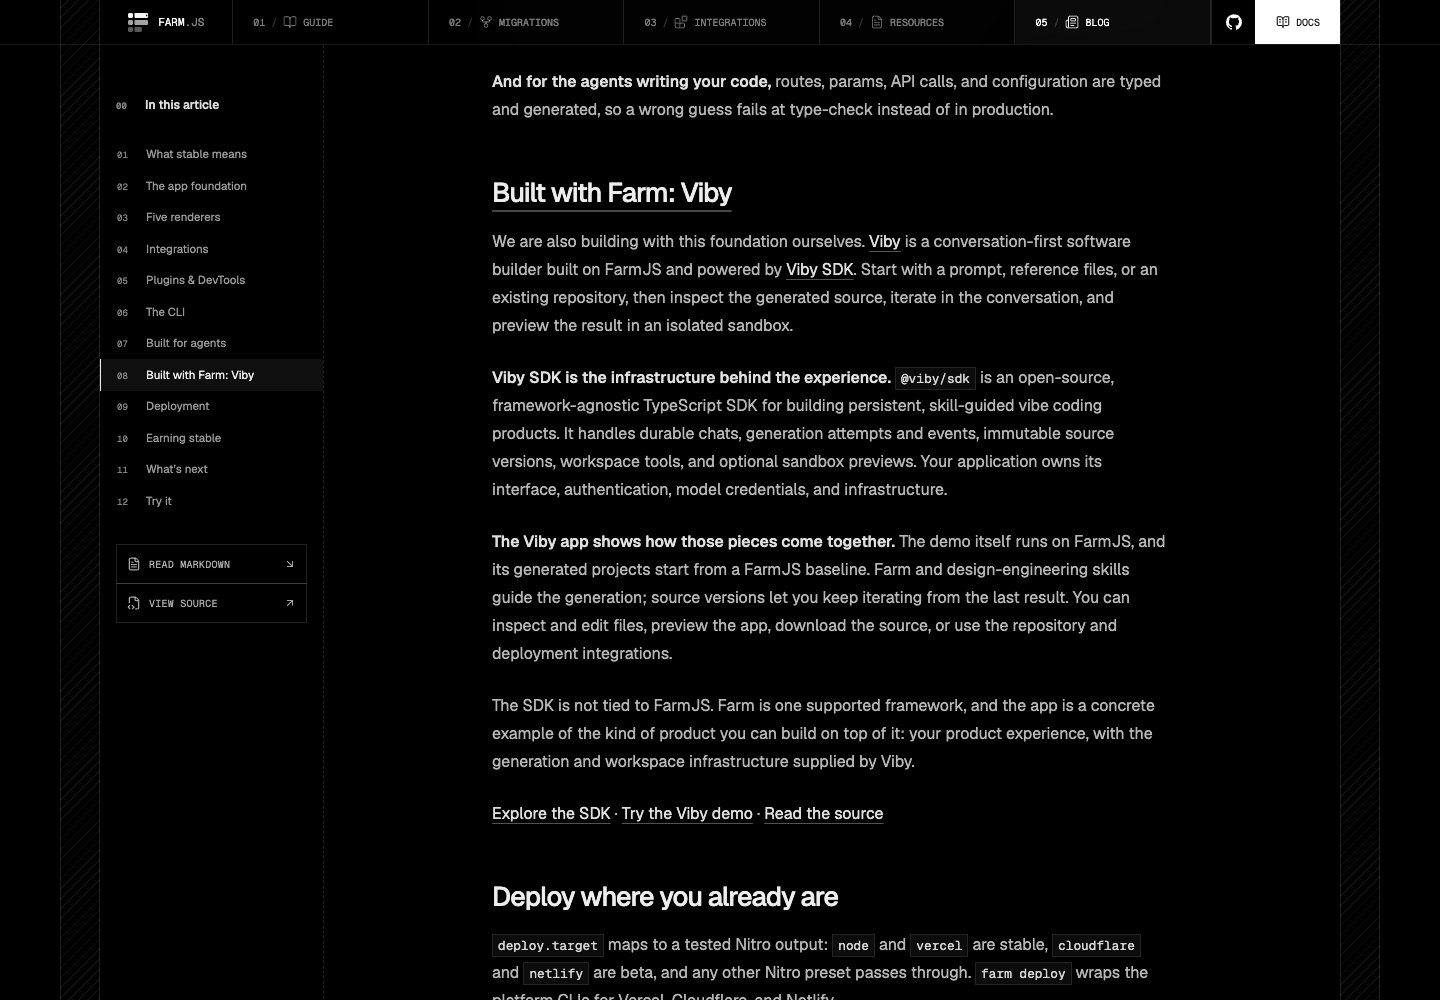
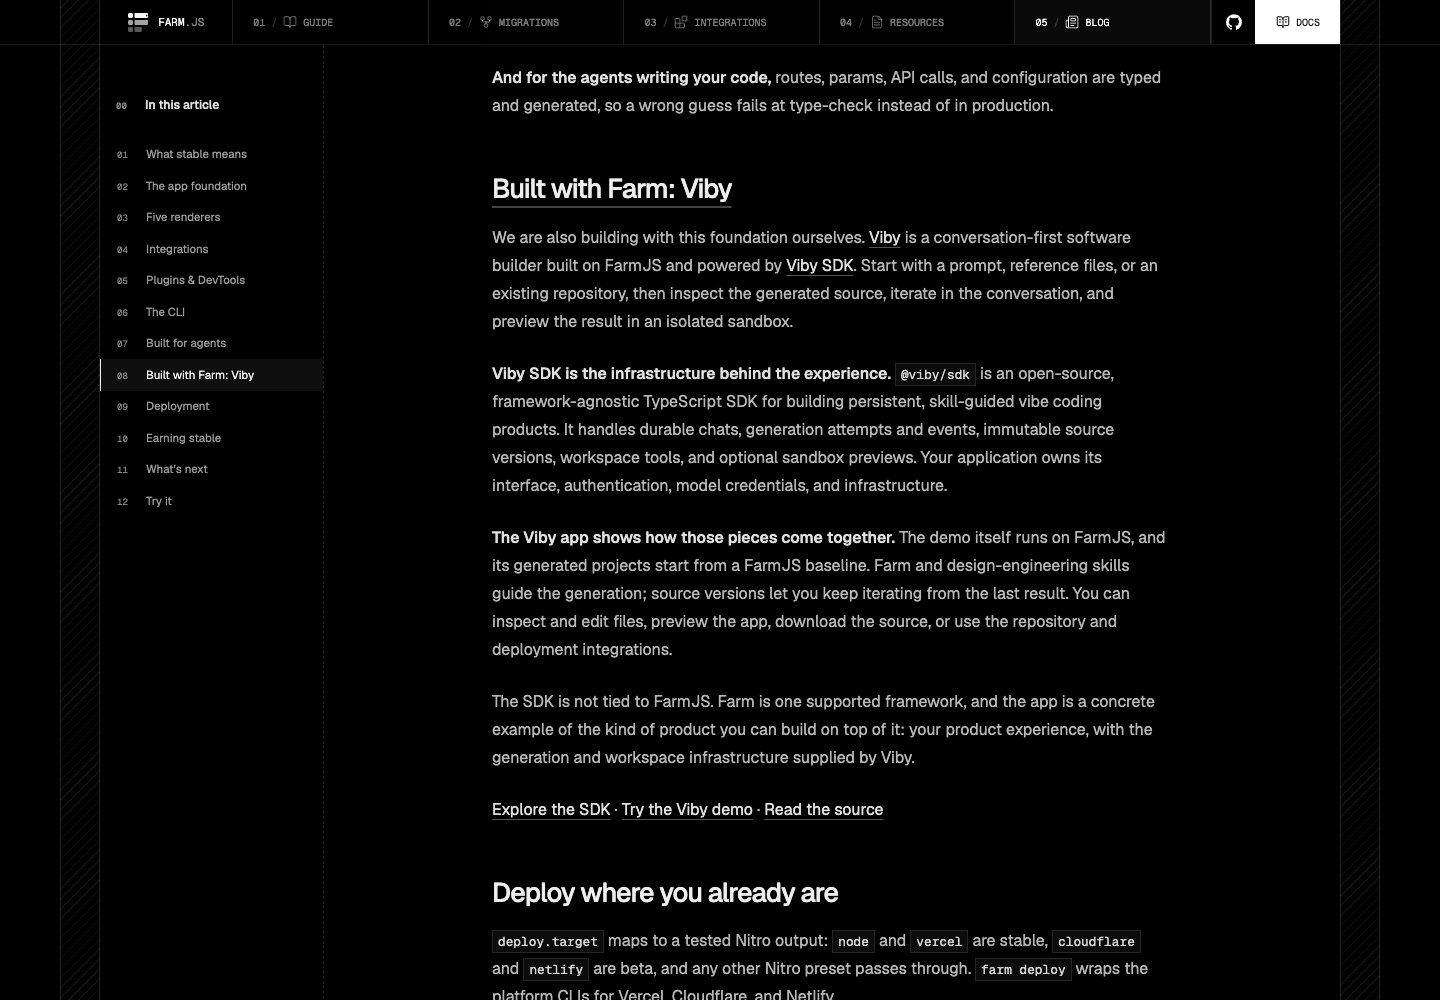
docs(blog): simplify article chrome and highlight code

diff --git a/tests/e2e-production-sites/docs.production.spec.ts b/tests/e2e-production-sites/docs.production.spec.ts
@@ -1,4 +1,4 @@
-import { access } from "node:fs/promises";
+import { access, readFile } from "node:fs/promises";
 import { expect, test } from "@playwright/test";
 
 test.beforeAll(async () => {
@@ -39,7 +39,7 @@ test("blog connects the journal, article, contents, and Markdown mirror", async 
   await page.goto("/blog");
   await expect(page.getByRole("heading", { level: 1 })).toHaveText("The Farm journal.");
   await expect(page.getByRole("link", { name: /Follow the releases/i })).toHaveCount(0);
-  await expect(page.locator(".blog-art-version")).toHaveText("v0.1.0_");
+  await expect(page.locator(".blog-art-version")).toHaveText("v 0.1.0_");
   await expect(page.locator(".blog-featured-bottom .blog-author-name")).toHaveText(
     "KinfeMichael Tariku",
   );
@@ -64,8 +64,11 @@ test("blog connects the journal, article, contents, and Markdown mirror", async 
   await expect(page).toHaveURL(/\/blog\/farm-0-1$/);
   await expect(page.getByRole("heading", { level: 1 })).toHaveCount(1);
   await expect(page.getByRole("heading", { level: 1 })).toContainText("FarmJS v0.1.0");
-  await expect(page.getByRole("heading", { level: 1 })).toHaveCSS("font-size", "42px");
-  await expect(page.locator(".blog-art-version")).toHaveText("v0.1.0_");
+  await expect(page.getByRole("heading", { level: 1 })).toHaveCSS("font-size", "36px");
+  await expect(page.locator(".blog-art-version")).toHaveText("v 0.1.0_");
+  await expect(page.locator(".blog-post-heading > p")).toHaveText(
+    "Our first stable release. Built for apps and agents.",
+  );
   await expect(page.getByRole("heading", { name: /Keep exploring/ })).toHaveCount(1);
   await expect(page.locator(".blog-explore")).toHaveCSS("border-top-width", "1px");
   const hero = await page.locator(".blog-post-header").boundingBox();
@@ -102,29 +105,52 @@ test("blog connects the journal, article, contents, and Markdown mirror", async 
   await expect(
     page.getByRole("heading", { level: 2, name: "Try it", exact: true }),
   ).toBeInViewport();
-  await expect(contents.getByRole("link", { name: /Read Markdown/i })).toHaveAttribute(
-    "href",
-    "/blog/farm-0-1.md",
-  );
-  await expect(contents.getByRole("link", { name: /Read Markdown/i })).toHaveCSS(
-    "text-transform",
-    "uppercase",
-  );
-  await expect(contents.getByRole("link", { name: /View source/i })).toHaveAttribute(
-    "href",
-    "https://github.com/farming-labs/farm.js/blob/main/docs/src/app/blog/farm-0-1/page.md",
-  );
+  await expect(page.getByRole("group", { name: "Article resources" })).toHaveCount(0);
+  await expect(page.getByRole("link", { name: /Read Markdown/i })).toHaveCount(0);
+  await expect(contents.getByRole("link", { name: /View source/i })).toHaveCount(0);
+  await expect(page.getByText("This post is a", { exact: false })).toHaveCount(0);
   const markdown = await page.request.get("/blog/farm-0-1.md");
   expect(markdown.ok()).toBe(true);
   expect(await markdown.text()).toContain("# FarmJS v0.1.0: Stable, Integrated, and Agent-Native");
   expect(await markdown.text()).toContain("## Built with Farm: Viby");
-  await contents.getByRole("link", { name: /Read Markdown/i }).click();
+  await page.goto("/blog/farm-0-1.md");
   await expect(page).toHaveURL(/\/blog\/farm-0-1\.md$/);
   await expect(page.locator("body")).toContainText("# FarmJS v0.1.0");
   await page.goBack();
   await page.getByRole("link", { name: "All posts" }).click();
   await expect(page).toHaveURL(/\/blog$/);
   expect(browserErrors).toEqual([]);
+});
+
+test("blog syntax highlighting is server-rendered and preserves every fenced code sample", async ({
+  browser,
+  baseURL,
+}) => {
+  const source = await readFile("docs/src/app/blog/farm-0-1/page.md", "utf8");
+  const fences = Array.from(source.matchAll(/^```(\w+)\n([\s\S]*?)^```/gm));
+  expect(fences).toHaveLength(6);
+  const context = await browser.newContext({ baseURL, javaScriptEnabled: false });
+  try {
+    const page = await context.newPage();
+    await page.goto("/blog/farm-0-1");
+    const blocks = page.locator(".blog-prose pre > code");
+    await expect(blocks).toHaveCount(fences.length);
+    for (const [index, [, language, code]] of fences.entries()) {
+      const block = blocks.nth(index);
+      await expect(block).toHaveAttribute("class", `language-${language}`);
+      await expect(block).toHaveAttribute("data-highlighted", "true");
+      expect(await block.textContent()).toBe(code);
+      const colors = await block
+        .locator("span")
+        .evaluateAll((tokens) => [
+          ...new Set(tokens.map((token) => getComputedStyle(token).color)),
+        ]);
+      expect(colors.length).toBeGreaterThan(1);
+    }
+    await expect(page.getByRole("link", { name: /Read Markdown/i })).toHaveCount(0);
+  } finally {
+    await context.close();
+  }
 });
 
 test("article sidebar tracks native navigation, reading position, pointer, and keyboard focus", async ({

diff --git a/docs/src/app/blog/blog.css b/docs/src/app/blog/blog.css
@@ -39,7 +39,6 @@
 .blog-art-label,
 .blog-art-caption,
 .blog-breadcrumb,
-.blog-article-tools,
 .blog-resource-action {
   font-family: var(--font-geist-mono), ui-monospace, monospace;
 }
@@ -59,7 +58,7 @@
 }
 .blog-index-header h1 {
   margin: 20px 0 18px;
-  font-size: clamp(38px, 5vw, 56px);
+  font-size: clamp(34px, 4vw, 48px);
   line-height: 1.08;
   letter-spacing: -0.04em;
   font-weight: 450;
@@ -137,7 +136,7 @@
 .blog-featured h3 {
   margin: 26px 0 20px;
   font-weight: 450;
-  font-size: clamp(28px, 2.8vw, 40px);
+  font-size: clamp(26px, 2.5vw, 36px);
   line-height: 1.16;
   letter-spacing: -0.04em;
 }
@@ -397,7 +396,7 @@
   padding: 56px 48px;
 }
 .blog-post-heading h1 {
-  font-size: clamp(30px, 3.2vw, 42px);
+  font-size: clamp(28px, 2.8vw, 36px);
   font-weight: 450;
   line-height: 1.13;
   letter-spacing: -0.05em;
@@ -505,35 +504,6 @@
   transition: none;
 }
 .farm-blog .blog-contents-links a:focus-visible {
-  outline-offset: -2px;
-}
-.blog-article-tools {
-  display: grid;
-  margin-top: 28px;
-}
-.blog-article-tools a {
-  display: inline-flex;
-  align-items: center;
-  gap: 8px;
-  min-height: 40px;
-  padding: 10px;
-  border: 1px solid var(--blog-line);
-  color: #a8a8a8;
-  font-size: 10px;
-  text-transform: uppercase;
-  letter-spacing: 0.025em;
-  transition:
-    border-color 140ms ease-out,
-    color 140ms ease-out,
-    background-color 140ms ease-out;
-}
-.blog-article-tools a + a {
-  margin-top: -1px;
-}
-.blog-tool-arrow {
-  margin-left: auto;
-}
-.farm-blog .blog-article-tools a:focus-visible {
   outline-offset: -2px;
 }
 .blog-reading-column {
@@ -670,8 +640,7 @@
   text-decoration-color: #454545;
   text-underline-offset: 8px;
 }
-.blog-mobile-contents,
-.blog-mobile-tools {
+.blog-mobile-contents {
   display: none;
 }
 .blog-article-end {
@@ -709,12 +678,6 @@
   }
   .blog-breadcrumb a:hover {
     color: #fff;
-  }
-  .blog-article-tools a:hover {
-    position: relative;
-    color: #fff;
-    border-color: #555;
-    background: #151515;
   }
   .blog-contents-links a:hover {
     color: #ededed;
@@ -816,7 +779,7 @@
     padding: 40px 24px;
   }
   .blog-post-heading h1 {
-    font-size: clamp(28px, 6.5vw, 40px);
+    font-size: clamp(26px, 6vw, 34px);
   }
   .blog-post-heading > p {
     max-width: 50ch;
@@ -857,13 +820,6 @@
   }
   .blog-mobile-contents .blog-contents-links a {
     min-height: 40px;
-  }
-  .blog-mobile-tools {
-    display: block;
-  }
-  .blog-mobile-tools .blog-article-tools a {
-    min-height: 44px;
-    padding-inline: 14px;
   }
   .blog-prose {
     font-size: 15px;

diff --git a/docs/src/markdown-components.test.tsx b/docs/src/markdown-components.test.tsx
@@ -1,0 +1,45 @@
+// @vitest-environment node
+import { createElement } from "react";
+import { renderToStaticMarkup } from "react-dom/server";
+import { describe, expect, it } from "vitest";
+import { components } from "./markdown-components";
+
+describe("Markdown code", () => {
+  it.each([
+    ["bash", 'curl -H "Accept: text/markdown" https://farmjs.dev/blog/farm-0-1\n'],
+    ["ts", 'const message: string = "<script>alert(1)</script>";\n'],
+  ])("highlights %s on the server and escapes code as text", (language, source) => {
+    const html = renderToStaticMarkup(
+      createElement(components.code, {
+        className: `language-${language}`,
+        children: source,
+      }),
+    );
+    expect(html).toContain('data-highlighted="true"');
+    expect(html).toContain('<span style="color:');
+    expect(html).not.toContain("<script>");
+    // Remove presentation markup, then decode the text escaped by React.
+    const text = html
+      .replace(/<[^>]+>/g, "")
+      .replaceAll("&lt;", "<")
+      .replaceAll("&gt;", ">")
+      .replaceAll("&quot;", '"')
+      .replaceAll("&#x27;", "'")
+      .replaceAll("&amp;", "&");
+    expect(text).toBe(source);
+  });
+
+  it.each([undefined, "language-unknown", "language-text"])(
+    "leaves inline and unsupported code readable (%s)",
+    (className) => {
+      const html = renderToStaticMarkup(
+        createElement(components.code, {
+          className,
+          children: "<b>literal</b>\n",
+        }),
+      );
+      expect(html).not.toContain("data-highlighted");
+      expect(html).toContain("&lt;b&gt;literal&lt;/b&gt;\n</code>");
+    },
+  );
+});

diff --git a/docs/src/markdown-components.tsx b/docs/src/markdown-components.tsx
@@ -1,0 +1,44 @@
+import { Fragment, type ComponentPropsWithoutRef } from "react";
+import { createHighlighterCoreSync } from "shiki/core";
+import { createJavaScriptRegexEngine } from "shiki/engine/javascript";
+import bash from "shiki/langs/bash.mjs";
+import typescript from "shiki/langs/typescript.mjs";
+import vesper from "shiki/themes/vesper.mjs";
+
+// Farm loads this map only on the server for source-authored Markdown routes.
+// Load the blog's grammars once, with the same dark palette as the docs.
+const highlighter = createHighlighterCoreSync({
+  themes: [vesper],
+  langs: [bash, typescript],
+  engine: createJavaScriptRegexEngine(),
+});
+const languages = new Set(highlighter.getLoadedLanguages());
+
+function Code({ children, className, ...props }: ComponentPropsWithoutRef<"code">) {
+  const language = className?.match(/(?:^|\s)language-([^\s]+)/)?.[1];
+  if (typeof children !== "string" || !language || !languages.has(language)) {
+    return (
+      <code {...props} className={className}>
+        {children}
+      </code>
+    );
+  }
+
+  const lines = highlighter.codeToTokensBase(children, { lang: language, theme: "vesper" });
+  return (
+    <code {...props} className={className} data-highlighted="true">
+      {lines.map((tokens, line) => (
+        <Fragment key={line}>
+          {line > 0 ? "\n" : null}
+          {tokens.map((token, index) => (
+            <span key={index} style={{ color: token.color }}>
+              {token.content}
+            </span>
+          ))}
+        </Fragment>
+      ))}
+    </code>
+  );
+}
+
+export const components = { code: Code };

diff --git a/docs/src/app/blog/farm-0-1/layout.tsx b/docs/src/app/blog/farm-0-1/layout.tsx
@@ -1,6 +1,5 @@
 import type { LayoutProps } from "@farm.js/core";
 import { ArrowLeft } from "lucide-react";
-import { ArticleTools } from "../../../components/blog/article-tools";
 import { BlogAuthor } from "../../../components/blog/author";
 import { BlogExplore } from "../../../components/blog/explore";
 import { ReleaseArtwork } from "../../../components/blog/release-artwork";
@@ -59,7 +58,6 @@ export default function LaunchPostLayout({ children }: LayoutProps) {
               <span aria-hidden="true">00</span> In this article
             </p>
             <Contents />
-            <ArticleTools href={launchPost.href} />
           </div>
         </aside>
         <div className="blog-reading-column">
@@ -75,9 +73,6 @@ export default function LaunchPostLayout({ children }: LayoutProps) {
               ▦
             </span>
             <p>Thanks for building with us.</p>
-          </div>
-          <div className="blog-mobile-tools">
-            <ArticleTools href={launchPost.href} />
           </div>
         </div>
       </div>

diff --git a/docs/src/lib/blog.ts b/docs/src/lib/blog.ts
@@ -1,8 +1,7 @@
 export const launchPost = {
   href: "/blog/farm-0-1",
   title: "FarmJS v0.1.0: Stable, Integrated, and Agent-Native",
-  description:
-    "Our first stable release. One foundation for your app, the services behind it, and the agents working alongside you.",
+  description: "Our first stable release. Built for apps and agents.",
   author: "KinfeMichael Tariku",
   authorAvatar: "https://avatars.githubusercontent.com/u/65047246?v=4&size=96",
   date: "October 2026",

diff --git a/docs/src/app/blog/page.tsx b/docs/src/app/blog/page.tsx
@@ -22,10 +22,7 @@ export default function BlogPage() {
           <h1>
             The Farm journal<span className="blog-title-period">.</span>
           </h1>
-          <p className="blog-index-description">
-            Releases, engineering notes, and ideas.
-            <br />A closer look at what we’re building, and why.
-          </p>
+          <p className="blog-index-description">Releases, engineering notes, and ideas.</p>
         </div>
       </header>
 

diff --git a/docs/src/components/blog/release-artwork.tsx b/docs/src/components/blog/release-artwork.tsx
@@ -32,7 +32,7 @@ export function ReleaseArtwork({ fullBleed = false }: { fullBleed?: boolean }) {
       </div>
       <pre className="blog-ascii-field">{field}</pre>
       <div className="blog-art-version">
-        v0.1.0<span className="blog-art-cursor">_</span>
+        v 0.1.0<span className="blog-art-cursor">_</span>
       </div>
       <div className="blog-art-caption">
         <span>BUILT TO BUILD ON.</span>

diff --git a/docs/farm.config.ts b/docs/farm.config.ts
@@ -5,6 +5,9 @@ import { withDocs } from "@farming-labs/farmjs/config";
 export default withDocs(
   defineConfig({
     plugins: [devtools()],
+    mdx: {
+      components: "./src/markdown-components.tsx",
+    },
     async headers() {
       return [
         {

diff --git a/docs/src/app/blog/farm-0-1/page.md b/docs/src/app/blog/farm-0-1/page.md
@@ -1,6 +1,6 @@
 ---
 title: "FarmJS v0.1.0: Stable, Integrated, and Agent-Native"
-description: "FarmJS 0.1 is the first release with a compatibility promise. A tour of what shipped: DevTools, the plugin and integration ecosystems, five renderers, a CLI that explains your app, and apps built for agents."
+description: "Our first stable release. Built for apps and agents."
 ---
 
 # FarmJS v0.1.0: Stable, Integrated, and Agent-Native
@@ -194,7 +194,3 @@ If you prefer pnpm, `pnpm create @farm.js/app my-app` works too. pnpm 11 and new
 Coming from a beta, `farm upgrade --latest` and the [upgrade guide](https://farmjs.dev/docs/upgrading) cover the behavior changes and the deprecated APIs to move off before 0.2.
 
 If something breaks, `farm doctor` output and an issue on [GitHub](https://github.com/farming-labs/farm.js/issues) is the fastest way to reach me. Thanks to everyone who ran the betas and told me what was wrong.
-
----
-
-This post is a `page.md` route in a FarmJS app. Append `.md` to its URL to read it the way an agent does.
